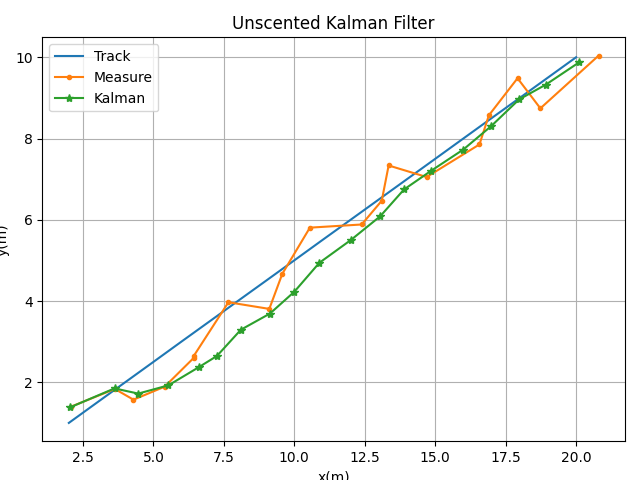
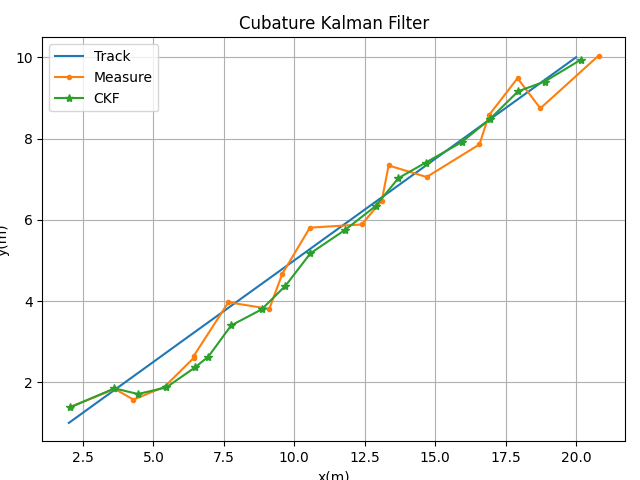
README

diff --git a/example/ukf/plot.py b/example/ukf/plot.py
@@ -14,7 +14,7 @@ print(data)
 
 plt.plot(data[:, 0], data[:, 1], label="Track")
 plt.plot(data[:, 2], data[:, 3], marker=".", label="Measure")
-plt.plot(data[:, 4], data[:, 5], marker="*", label="Kalman")
+plt.plot(data[:, 4], data[:, 5], marker="*", label="UKF")
 plt.title("Unscented Kalman Filter")
 plt.legend(loc=2)
 plt.tight_layout()

diff --git a/example/ckf/plot.py b/example/ckf/plot.py
@@ -14,7 +14,7 @@ print(data)
 
 plt.plot(data[:, 0], data[:, 1], label="Track")
 plt.plot(data[:, 2], data[:, 3], marker=".", label="Measure")
-plt.plot(data[:, 4], data[:, 5], marker="*", label="Kalman")
+plt.plot(data[:, 4], data[:, 5], marker="*", label="CKF")
 plt.title("Cubature Kalman Filter")
 plt.legend(loc=2)
 plt.tight_layout()

diff --git a/README.md b/README.md
@@ -127,3 +127,15 @@ func main() {
 }
 
 ```
+
+![ukf-out](./example/ukf/out.png)
+
+### Cubature Kalman Filter
+
+```go
+	// Unscented Kalman Filter Example
+	// ...
+	kf := kalman.NewCubatureKalmanFilter(dimX, dimZ, dt, fx, hx)
+```
+
+![ckf-out](./example/ckf/out.png)
